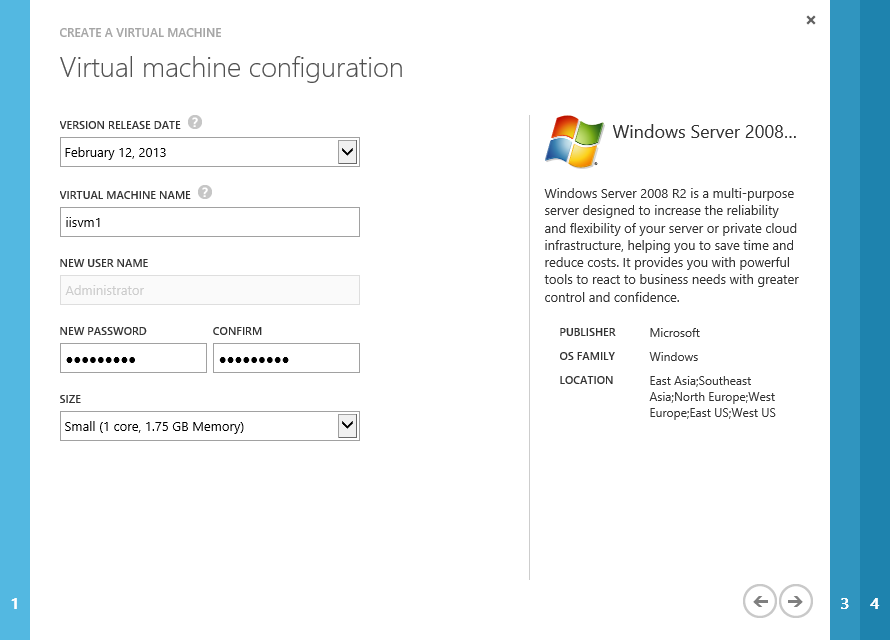
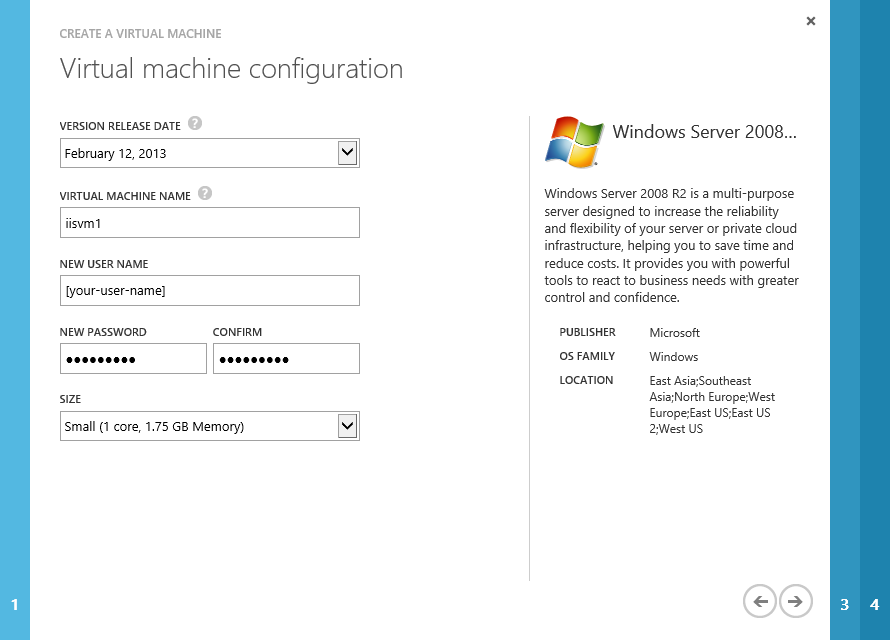
Updated HOL.md and screenshots to set the user name when creating a new VM in the Windows Azure portal. Updated references to AdventureWorks2012 database

diff --git a/HOL.md b/HOL.md
@@ -60,7 +60,7 @@ In this task, you will provision a Virtual Machine and configure the Load Balanc
  
 1. In the **Virtual Machine OS Selection** page, click **Platform Images** on the left menu and select the **Windows Server 2008 R2 SP1** OS image from the list. Click the arrow to continue.	
 
-1. In the Virtual Machine Configuration page, set the version release date to **February 12, 2013**. Enter the Virtual Machine Name (i.e. "iisvm1") and the administrator user's Password. This password needs to contain three of these – lower case characters, uppercase characters, numbers and special characters. Make sure you remember your choice. Click the right arrow to continue.
+1. In the **Virtual Machine Configuration** page, set the version release date to **February 12, 2013**. Enter the Virtual Machine Name (i.e. "iisvm1"), provide a user name for the **New User Name** field and a password for the **New Password** and **Confirm Password** fields. This password needs to contain three of these – lower case characters, uppercase characters, numbers and special characters. Make sure you remember your choice. Lastly, set the Virtual Machine **Size** to _Small_ and click **Next** to continue.
 
 	![Configuring a Custom Virtual Machine](Images/creating-a-vm-configuration.png?raw=true)
 	 
@@ -94,7 +94,7 @@ In this task, you will provision a Virtual Machine and configure the Load Balanc
 
 1. In the **Virtual Machine OS Selection** page, click **Platform Images** on the left menu and select the **Windows Server 2008 R2 SP1, February** OS image from the list. Click the **arrow** to continue.	
 
-1. In the **Virtual Machine Configuration** page, set the version release date to **February 12, 2013**. Enter the **Virtual Machine Name** (i.e. "_iisvm2_"), the administrator user's **Password** and the **Size**. Click the **right arrow** to continue.
+1. In the **Virtual Machine Configuration** page, set the version release date to **February 12, 2013**. Enter the **Virtual Machine Name** (i.e. "_iisvm2_"), a **User Name**, a **Password** and the **Size**. Click the **right arrow** to continue.
  
 1. In the **Virtual Machine Mode** page, select **Connect to existing Virtual Machine** and choose the first virtual machine you created from the drop down list. Select a **Storage Account** or leave the default value _Use Automatically Generated Storage Account_ and click the **right arrow** to continue. This step adds the new virtual machine to the cloud service created in the previous step. This allows the virtual machines to be on the same network.
 
@@ -165,7 +165,7 @@ In this task, you will configure the IIS Virtual Machines by adding the necessar
 
 1. You will see a list with your existing Virtual Machines. Select the first one you created in Task 1 and click the **Connect** button in the bottom bar. If you used the proposed name, this Virtual Machine should be named **iisvm1**.
 
-1. You will be asked to download the remote desktop settings file. Click **Open** and log on using the Admin credentials you defined when creating the Virtual Machine.
+1. You will be asked to download the remote desktop settings file. Click **Open** and log on using the credentials you defined when creating the Virtual Machine.
 
 1. In the Azure Virtual Machine, open **Server Manager** from **Start | Administrative Tools**.
 
@@ -233,7 +233,7 @@ In this task, you will create a new Virtual Machine using the Windows Azure port
  
 1. In the **Virtual Machine OS Selection** page, click **Platform Images** on the left menu and select the **Microsoft SQL Server 2012** image from the list. Click the arrow to continue.	
 
-1. In the **Virtual Machine Configuration** page, enter the **Virtual Machine Name** (i.e. "_sqlvm1_"), the administrator user's **Password** and the **Size**. Click the **right arrow** to continue.
+1. In the **Virtual Machine Configuration** page, enter the **Virtual Machine Name** (i.e. "_sqlvm1_"), a **User Name**, a **Password** and the **Size**. Click the **right arrow** to continue.
  
 1. In the **Virtual Machine Mode** page, select **Connect to existing Virtual Machine** and choose the first IIS Virtual Machine you created from the drop down list (_iisvm1_). Click the **right arrow** to continue.
  
@@ -270,9 +270,9 @@ In this task, you will create two empty data disks and attach them to an existin
 
 1. Finally, you need to format the disks in order to access them from the Virtual Machine. To do this, click **Connect** to connect to the Virtual Machine using **Remote Desktop connection**.
 
-1. It will ask you to download the remote desktop settings file. Click **Open** and log on using the Admin credentials you defined when creating the Virtual Machine.
+1. It will ask you to download the remote desktop settings file. Click **Open** and log on using the credentials you defined when creating the Virtual Machine.
 
-1. In the Virtual Machine, open **Server Manager** from **Start | Administrative Tools**.
+1. In the virtual machine, open **Server Manager** from **Start | Administrative Tools**.
 
 1. Expand **Storage** node and select **Disk Management** option.
 
@@ -340,17 +340,17 @@ In this task, you will configure SQL Server 2012. You will create the database t
  
 	>**Note:** Modifying **Internet Explorer Enhanced Security** configurations is not good practice and is only for the purpose of this particular lab. The correct approach should be to download the files locally and then copy them to a shared folder or directly to the Virtual Machine.
 
-1. This lab uses the **AdventureWorks** database. Open an **Internet Explorer** browser and go to <http://msftdbprodsamples.codeplex.com/> to download  the **SQL Server 2012** sample databases. Once on the page click on **AdventureWorks Databases – 2008, 2008R2 and 2012** and then download Adventure Works 2012 Data File. Download the file to F:\Data.
+1. This lab uses the **AdventureWorks2012** database. Open an **Internet Explorer** browser and go to <http://msftdbprodsamples.codeplex.com/> to download  the **SQL Server 2012** sample databases. Once on the page click on **AdventureWorks Databases – 2008, 2008R2 and 2012** and then download Adventure Works 2012 Data File. Download the file to F:\Data.
 
-	>**Note:** The **AdventureWorks** database can also be downloaded as a .zip file. If you choose this format, right-click the file to open its properties window and then click **Unblock**. Then, extract the database to F:\Data.
+	>**Note:** The **AdventureWorks2012** database can also be downloaded as a .zip file. If you choose this format, right-click the file to open its properties window and then click **Unblock**. Then, extract the database to F:\Data.
 
-1. Add the **AdventureWorks** sample database to your SQL Server. To do this, in the **SQL Server Management Studio**, locate your SQL Server instance node and expand it. Right click the **Databases** folder and select **Attach**.
+1. Add the **AdventureWorks2012** sample database to your SQL Server. To do this, in the **SQL Server Management Studio**, locate your SQL Server instance node and expand it. Right click the **Databases** folder and select **Attach**.
 
 	![Attaching the database](Images/attaching-adventureworks-database-menu.png?raw=true)
 
 	_Attaching the database_
 
-1. In the **Attach Databases** dialog, press **Add**. Browse to the data disk and select the Adventure Works data file.
+1. In the **Attach Databases** dialog, press **Add**. Browse to the data disk and select the Adventure Works 2012 data file.
 
 1. Select the **AdventureWorks2012** Log entry and click **Remove**.
 
@@ -366,7 +366,7 @@ In this task, you will configure SQL Server 2012. You will create the database t
  
 	_AdventureWorks Sample Database_
 
-1. Expand **Storage** node within **AdventureWorks** database, right-click **Full Text Catalogs** folder and select **New Full-Text Catalog**.
+1. Expand **Storage** node within **AdventureWorks2012** database, right-click **Full Text Catalogs** folder and select **New Full-Text Catalog**.
 
 	> **Note:** You are creating a Full Text Catalog for the database that will be used later by the MVC application. 
 
@@ -404,19 +404,19 @@ In this task, you will configure SQL Server 2012. You will create the database t
 
 	> **Note:** If you enter a different username or password than those suggested in this step, do not forget in the next exercise to update the web.config file of the MVC4 application to match those values.
 
-1. Unselect **Enforce password policy** checkbox to avoid having to change the password the first time you log on, and set the **Default database** to _AdventureWorks_.
+1. Unselect **Enforce password policy** checkbox to avoid having to change the password the first time you log on, and set the **Default database** to _AdventureWorks2012_.
 
  	![Creating a New Login](./Images/Creating-a-New-Login.png?raw=true "Creating a New Login")
  
 	_Creating a New Login_
 
-1. Click **User Mapping** on the left pane. Select the map checkbox in the _AdventureWorks_ database row and click **OK**.
+1. Click **User Mapping** on the left pane. Select the map checkbox in the _AdventureWorks2012_ database row and click **OK**.
 
  	![Mapping the new User to the AdventureWorks Database](./Images/mapping-new-user-database-2.png?raw=true "Mapping the new User to the AdventureWorks Database")
  
 	_Mapping the new User to the AdventureWorks Database_
 
-1. Expand **AdventureWorks** database within **Databases** folder. In the **Users** folder under **Security**, double-click **CloudShop** user.
+1. Expand **AdventureWorks2012** database within **Databases** folder. In the **Users** folder under **Security**, double-click **CloudShop** user.
 
 1. Select the **Membership** page, and select the _db_owner_ role checkbox for the **CloudShop** user and click **OK**.
 
